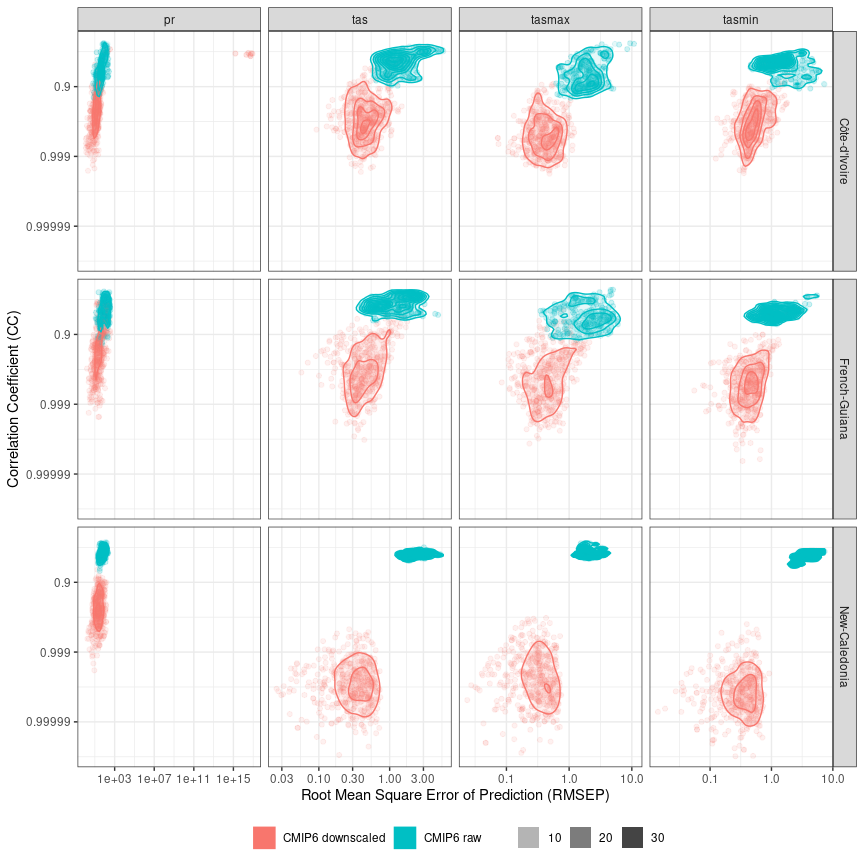
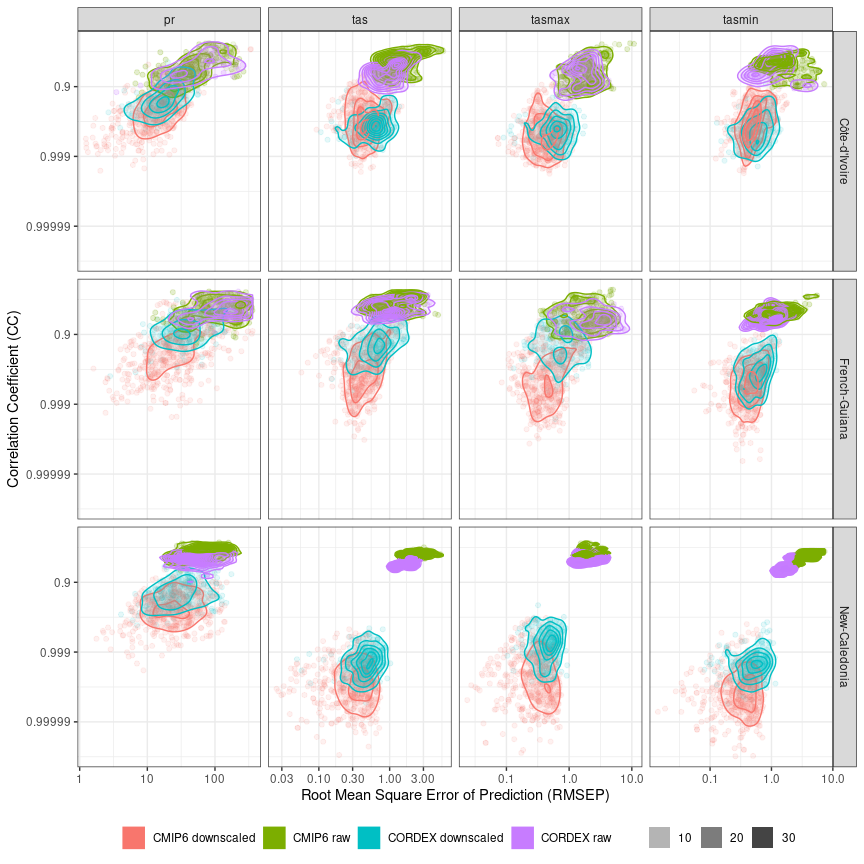
DownClim 0.1.0.9037: All projections running. Weird pr to remove. get_tmf to dvlp.

diff --git a/scripts/get_cordex2.py b/scripts/get_cordex2.py
@@ -24,25 +24,24 @@ aggregation = snakemake.params.aggregation
 temp_fold = snakemake.params.tmp
 
 # test
-# base_files = ["results/baselines/New-Caledonia_chelsa2_monthly-means_1980-2005.nc", 
-#               "results/baselines/Vanuatu_chelsa2_monthly-means_1980-2005.nc"]
-# check_file = "results/projections/CORDEX_AUS-22_CLMcom-HZG_MOHC-HadGEM2-ES_rcp26_r1i1p1_CCLM5-0-15_v1_chelsa2_done.txt"
-# areas = ["New-Caledonia", "Vanuatu"]
-# domain = "AUS-22"
-# institute = "CLMcom-HZG"
-# model = "MOHC-HadGEM2-ES"
+# base_files = ["results/baselines/Côte-d'Ivoire_chelsa2_monthly-means_1980-2005.nc"]
+# check_file = "results/projections/_CORDEX_AFR-22_GERICS_NCC-NorESM1-M_rcp26_r1i1p1_REMO2015_v1_chelsa2_done.txt"
+# areas = ["Côte-d'Ivoire"]
+# domain = "AFR-22"
+# institute = "GERICS"
+# model = "NCC-NorESM1-M"
 # experiment = "rcp26"
 # ensemble = "r1i1p1"
-# rcm = "CCLM5-0-15"
+# rcm = "REMO2015"
 # downscaling = "v1"
 # baseline = "chelsa2"
-# variables = ["tas"]
+# variables =  ["pr", "tas", "tasmin", "tasmax"]
 # time_frequency = "mon"
 # esgf_credential = "config/credentials_esgf.yml"
 # cores = 10
 # periods= ["1980-2005", "2006-2019", "2071-2100"]
 # aggregation="monthly-means"
-# temp_fold="results/projections/CORDEX_AUS-22_CLMcom-HZG_MOHC-HadGEM2-ES_rcp26_r1i1p1_CCLM5-0-15_v1_chelsa2_tmp/"
+# temp_fold="results/projections/CORDEX_AFR-22_GERICS_NCC-NorESM1-M_rcp26_r1i1p1_REMO2015_v1_chelsa2_tmp/"
  
 # libs
 import os
@@ -70,78 +69,93 @@ def get_nc(scripts, i):
 def convert_cf_to_dt(x):
   return dt.strptime(str(x), '%Y-%m-%d %H:%M:%S')
 
-# connect
-creds = yaml.safe_load(open(esgf_credential, 'r'))
-lm = LogonManager()
-lm.logon_with_openid(openid=creds['openid'], password=creds['pwd'], interactive=False, bootstrap=True)
-
-# list
-server = 'https://esgf-node.ipsl.upmc.fr/esg-search/'
-conn = SearchConnection(server, distrib=True)
-# keys: https://esgf-node.llnl.gov/esg-search/search?project=CORDEX&facets=*&limit=0
-ctx = conn.new_context(
-  facets='*',
-  project = "CORDEX",
-  domain = domain,
-  institute = institute,
-  driving_model = model,
-  experiment = [experiment, "historical"],
-  ensemble = ensemble,
-  rcm_name= rcm,
-  rcm_version = downscaling,
-  time_frequency = time_frequency,
-  variable = variables
-)
-all_scripts = list(map(lambda res: res.file_context().get_download_script(), ctx.search()))
-
-# download
-os.mkdir(temp_fold)
-pool = mp.Pool(cores)
-pool.starmap_async(get_nc, [(all_scripts, i) for i in list(range(len(all_scripts)))]).get()
-pool.close()
-
-# read & prepare
-files = [temp_fold + f for f in os.listdir(temp_fold) if re.match(r'.*\.(nc)', f)]
-ds = xr.open_mfdataset(files, parallel=True)
-cf = type(ds["time"].values[0]) is not numpy.datetime64
-if cf: # only cftime if not dt but should include more cases
-  ds['time'] = [*map(convert_cf_to_dt, ds.time.values)] 
-if 'pr' in list(ds.keys()):
-  ds['pr'] = ds.pr * 60*60*24*ds.time.dt.days_in_month  # s-1 to month-1
-  ds.pr.attrs = {'standard_name': 'precipitation', 
+def prep_proj(ds):
+  cf = type(ds["time"].values[0]) is not numpy.datetime64
+  if cf: # only cftime if not dt but should include more cases
+    ds['time'] = [*map(convert_cf_to_dt, ds.time.values)] 
+  if 'pr' in list(ds.keys()):
+    ds['pr'] = ds.pr * 60*60*24*ds.time.dt.days_in_month  # s-1 to month-1
+    ds.pr.attrs = {'standard_name': 'precipitation', 
                  'long_name': 'Monthly precipitation',
                  'units': 'mm month-1', 
                  'explanation' : 'Precipitation in the earth\'s atmosphere, monthly means precipitation of water in all phases.'}
-if 'tas' in list(ds.keys()):
-  ds['tas'] = ds.tas - 273.15  # K to °C
-  ds.tas.attrs = {'standard_name': 'temperature at surface', 
+  if 'tas' in list(ds.keys()):
+    ds['tas'] = ds.tas - 273.15  # K to °C
+    ds.tas.attrs = {'standard_name': 'temperature at surface', 
                   'long_name': 'Monthly mean daily air temperature',
                   'units': '°C', 
                   'explanation' : 'Monthly mean air temperatures at 2 meters.'}
-if 'tasmin' in list(ds.keys()):
-  ds['tasmin'] = ds.tasmin - 273.15  # K to °C
-  ds.tasmin.attrs = {'standard_name': 'minimum temperature at surface', 
+  if 'tasmin' in list(ds.keys()):
+    ds['tasmin'] = ds.tasmin - 273.15  # K to °C
+    ds.tasmin.attrs = {'standard_name': 'minimum temperature at surface', 
                'long_name': 'Monthly minimum daily air temperature',
                'units': '°C', 
                'explanation' : 'Monthly minimum air temperatures at 2 meters.'}
-if 'tasmax' in list(ds.keys()):
-  ds['tasmax'] = ds.tasmax - 273.15  # K to °C
-  ds.tasmax.attrs = {'standard_name': 'maximum temperature at surface', 
+  if 'tasmax' in list(ds.keys()):
+    ds['tasmax'] = ds.tasmax - 273.15  # K to °C
+    ds.tasmax.attrs = {'standard_name': 'maximum temperature at surface', 
                      'long_name': 'Monthly maximum daily air temperature',
                      'units': '°C', 
                      'explanation' : 'Monthly maximum air temperatures at 2 meters.'}
+  return ds
 
+if(not os.path.isdir(temp_fold)):
+  # connect
+  creds = yaml.safe_load(open(esgf_credential, 'r'))
+  lm = LogonManager()
+  lm.logon_with_openid(openid=creds['openid'], password=creds['pwd'], interactive=False, bootstrap=True)
+
+  # list
+  server = 'https://esgf-node.ipsl.upmc.fr/esg-search/'
+  conn = SearchConnection(server, distrib=True)
+  ctx = conn.new_context(
+    facets='*',
+    project = "CORDEX",
+    domain = domain,
+    institute = institute,
+    driving_model = model,
+    experiment = [experiment, "historical"],
+    ensemble = ensemble,
+    rcm_name= rcm,
+    rcm_version = downscaling,
+    time_frequency = time_frequency,
+    variable = variables
+  )
+  all_scripts = list(map(lambda res: res.file_context().get_download_script(), ctx.search()))
+    
+  # download
+  os.mkdir(temp_fold)
+  pool = mp.Pool(cores)
+  pool.starmap_async(get_nc, [(all_scripts, i) for i in list(range(len(all_scripts)))]).get()
+  pool.close()
+else:
+  print("Folder already present, assuming already downloaded data.")
+
+# read & prepare
+files = [temp_fold + f for f in os.listdir(temp_fold) if re.match(r'.*\.(nc)', f)]
+files_hist = [f for f in files if re.search('_historical', f)]
+files_rcp = [f for f in files if f not in files_hist]
+ds_hist = xr.open_mfdataset(files_hist, parallel=True)
+ds_rcp = xr.open_mfdataset(files_rcp, parallel=True)
+ds_hist = prep_proj(ds_hist)
+ds_rcp = prep_proj(ds_rcp)
+      
 # regrid and write per country
-for period in periods:
-  dmin = period.split("-")[0] + "-01-01"
-  dmax = period.split("-")[1] + "-01-01"
-  ds_a = ds.sel(time=slice(dmin, dmax)).groupby("time.month").mean("time")
-  for i in list(range(len(areas))):
-    base = xr.open_dataset(base_files[i])
-    regridder = xe.Regridder(ds_a, base, "bilinear")
-    ds_r = regridder(ds_a, keep_attrs=True)
+for i in list(range(len(areas))):
+  base = xr.open_dataset(base_files[i])
+  regridder_hist = xe.Regridder(ds_hist, base, "bilinear", ignore_degenerate=True)
+  ds_hist_r = regridder_hist(ds_hist, keep_attrs=True)
+  regridder_rcp = xe.Regridder(ds_rcp, base, "bilinear", ignore_degenerate=True)
+  ds_rcp_r = regridder_rcp(ds_rcp, keep_attrs=True)
+  for period in periods:
+    dmin = period.split("-")[0] + "-01-01"
+    dmax = period.split("-")[1] + "-01-01"
+    if(dmax <= '2005-01-01'):
+      ds_a = ds_hist_r.sel(time=slice(dmin, dmax)).groupby("time.month").mean("time")
+    else:
+      ds_a = ds_rcp_r.sel(time=slice(dmin, dmax)).groupby("time.month").mean("time")
     path = os.path.dirname(check_file) + "/" + areas[i] + "_CORDEX_" + domain + "_" + institute + "_" + model + "_" + experiment + "_" + ensemble + "_" + rcm + "_" + downscaling + "_" + baseline + "_" + aggregation + "_" + period + ".nc"
-    ds_r.to_netcdf(path)
+    ds_a.to_netcdf(path)
 
 shutil.rmtree(temp_fold)
 f = open(check_file, "a")

diff --git a/scripts/eval_proj.py b/scripts/eval_proj.py
@@ -23,20 +23,21 @@ period_proj = snakemake.params.period_proj
 period_eval = snakemake.params.period_eval
 ds_method = snakemake.params.ds_method
 base_eval = snakemake.params.base_eval
-      
+variables = snakemake.params.variables
+
 # test
-# ds_file = "results/downscaled/Côte-d'Ivoire_CMIP6_world_MIROC_MIROC-ES2L_ssp126_r8i1p1f2_none_none_chelsa2_monthly-means_2006-2019_1980-2005_bc.nc"
-# base_file = "results/baselines/Côte-d'Ivoire_chelsa2_monthly-means_1980-2005.nc"
-# area_file = "results/areas/Côte-d'Ivoire.shp"
-# area="Côte-d'Ivoire"
-# origin="CMIP6"
-# domain="world"
-# institute="MIROC"
-# model="MIROC-ES2L"
-# experiment="ssp126" 
-# ensemble="r8i1p1f2"
-# rcm="none"
-# downscaling="none"
+# ds_file = "results/downscaled/New-Caledonia_CORDEX_AUS-22_GERICS_NCC-NorESM1-M_rcp85_r1i1p1_REMO2015_v1_chelsa2_monthly-means_2006-2019_1980-2005_bc.nc"
+# base_file = "results/baselines/New-Caledonia_chelsa2_monthly-means_1980-2005.nc"
+# area_file = "results/areas/New-Caledonia.shp"
+# area="New-Caledonia"
+# origin="CORDEX"
+# domain="AUS-22"
+# institute="GERICS"
+# model="NCC-NorESM1-M"
+# experiment="rcp85" 
+# ensemble="r1i1p1"
+# rcm="REMO2015"
+# downscaling="v1"
 # baseline="chelsa2"
 # aggregation="monthly-means"
 # period_proj="2006-2019"
@@ -52,7 +53,6 @@ import geopandas as gp
 
 # funs
 def get_eval(pred_ds, base_ds, type_in):
-    variables = list(pred_ds.keys())
     months = list(range(1,13))
     a = []
     for v in variables:

diff --git a/scripts/downscale_bc.py b/scripts/downscale_bc.py
@@ -21,21 +21,22 @@ period_future = snakemake.params.period_future
 period_hist = snakemake.params.period_hist
 
 # test
-# proj_file="results/projections/_Côte-d'Ivoire_CMIP6_world_CNRM-CERFACS_CNRM-CM6-1_ssp126_r3i1p1f2_none_none_chelsa2_done.txt"
+# proj_file="results/projections/_CORDEX_AFR-22_CLMcom-KIT_NCC-NorESM1-M_rcp85_r1i1p1_CCLM5-0-15_v1_chelsa2_done.txt"
 # base_hist_file="results/baselines/Côte-d'Ivoire_chelsa2_monthly-means_1980-2005.nc"
 # area="Côte-d'Ivoire"
-# project="CMIP6"
-# domain="world"
-# institute="CNRM-CERFACS"
-# model="CNRM-CM6-1"
-# experiment="ssp126"
-# ensemble="r3i1p1f2"
-# rcm="none"
-# downscaling="none"
+# project="CORDEX"
+# domain="AFR-22"
+# institute="CLMcom-KIT"
+# model="NorESM1-M"
+# experiment="rcp85"
+# ensemble="r1i1p1"
+# rcm="CCLM5-0-15"
+# downscaling="v1"
 # baseline="chelsa2"
 # aggregation="monthly-means"
 # period_future="2071-2100"
 # period_hist="1980-2005"
+# ds="results/downscaled/Côte-d'Ivoire_CORDEX_AFR-22_CLMcom-KIT_NCC-NorESM1-M_rcp85_r1i1p1_CCLM5-0-15_v1_chelsa2_monthly-means_2071-2100_1980-2005_bc.nc"
 
 # libs
 import os

diff --git a/scripts/get_tmf.py b/scripts/get_tmf.py
@@ -1,0 +1,32 @@
+# log
+log_file = open(snakemake.log[0],"w")
+sys.stderr = sys.stdout = log_file
+
+# variables
+ds_file =  snakemake.input[0]
+area_file =  snakemake.input[2]
+out_file = snakemake.output[0]
+      
+# test
+ds_file = "results/downscaled/Côte-d'Ivoire_CMIP6_world_MIROC_MIROC-ES2L_ssp126_r8i1p1f2_none_none_chelsa2_monthly-means_2006-2019_1980-2005_bc.nc"
+area_file = "results/areas/Côte-d'Ivoire.shp"
+
+# libs
+import xarray as xr
+import geopandas as gp
+import numpy as np
+
+# code
+tmin = 24
+prmin = 2000
+area_shp = gp.read_file(area_file)
+ds = xr.open_dataset(ds_file).rio.clip(area_shp.geometry.values, area_shp.crs)
+ds_year = ds[["pr", "tas"]].mean("month")
+ds_year['pr'] = ds[["pr"]].sum("month").pr
+ds_year = ds_year.assign(tmf = lambda x: np.logical_and((x.tas > 20), (x.pr > 1500)))
+
+
+# view
+import matplotlib.pyplot as plt
+ds_year.tmf.plot()
+plt.show()

diff --git a/rules/get_cordex.py b/rules/get_cordex.py
@@ -1,5 +1,5 @@
 def list_areas(wildcards):
-    return dom[dom.domain == wildcards.domain].area
+    return dom[dom.domain == wildcards.domain].area.values
 
 def list_cordex_in(wildcards):
     return expand("results/baselines/{area}_{base}_{aggregation}_{period}.nc", 
@@ -19,7 +19,7 @@ rule get_cordex:
         "results/benchmarks/get_cordex_CORDEX_{domain}_{institute}_{model}_{experiment}_{ensemble}_{rcm}_{downscaling}_{base}.benchmark.txt"
     threads: 10
     resources:
-        mem_mb=1000
+        mem_mb=10000
     conda:
         "../envs/xarray.yml"
     params:

diff --git a/rules/eval_proj.py b/rules/eval_proj.py
@@ -27,6 +27,7 @@ rule eval_proj:
       period_proj="{period_proj}",
       period_eval="{period_eval}",
       ds_method="{ds_method}",
-      base_eval="{base_eval}"
+      base_eval="{base_eval}",
+      variables=config["variables"]
     script:
       "../scripts/eval_proj.py"

diff --git a/README.md b/README.md
@@ -1,6 +1,6 @@
 # DownClim - Downscale Climate Projections
 Sylvain Schmitt -
-Apr 10, 2024
+Apr 12, 2024
 
 - [Installation](#installation)
 - [Credentials](#credentials)
@@ -222,6 +222,18 @@ before and after downscaling.
 ### [merge_eval](https://github.com/sylvainschmitt/DownClim/blob/dev/rules/merge_eval.py)
 
 Merge all evaluations.
+
+define_tmf
+
+`PET = 0.0023 * RA * (Tmean + 17.8) * TD ^ 0.5`
+
+PET = monthly pet
+
+RA = monthly srad
+
+Tmean = monthly tas
+
+TD = tasmax - tasmin
 
 # Data
 

diff --git a/NEWS.md b/NEWS.md
@@ -1,3 +1,4 @@
+-   DownClim 0.1.0.9037: All projections running. Weird pr to remove. get_tmf to dvlp.
 -   DownClim 0.1.0.9036: All CMIP6 working but reduced list in list_projections.py
 -   DownClim 0.1.0.9035: ds_bc fixed and testing documentation
 -   DownClim 0.1.0.9034: few fixes to be shared with Thomas
